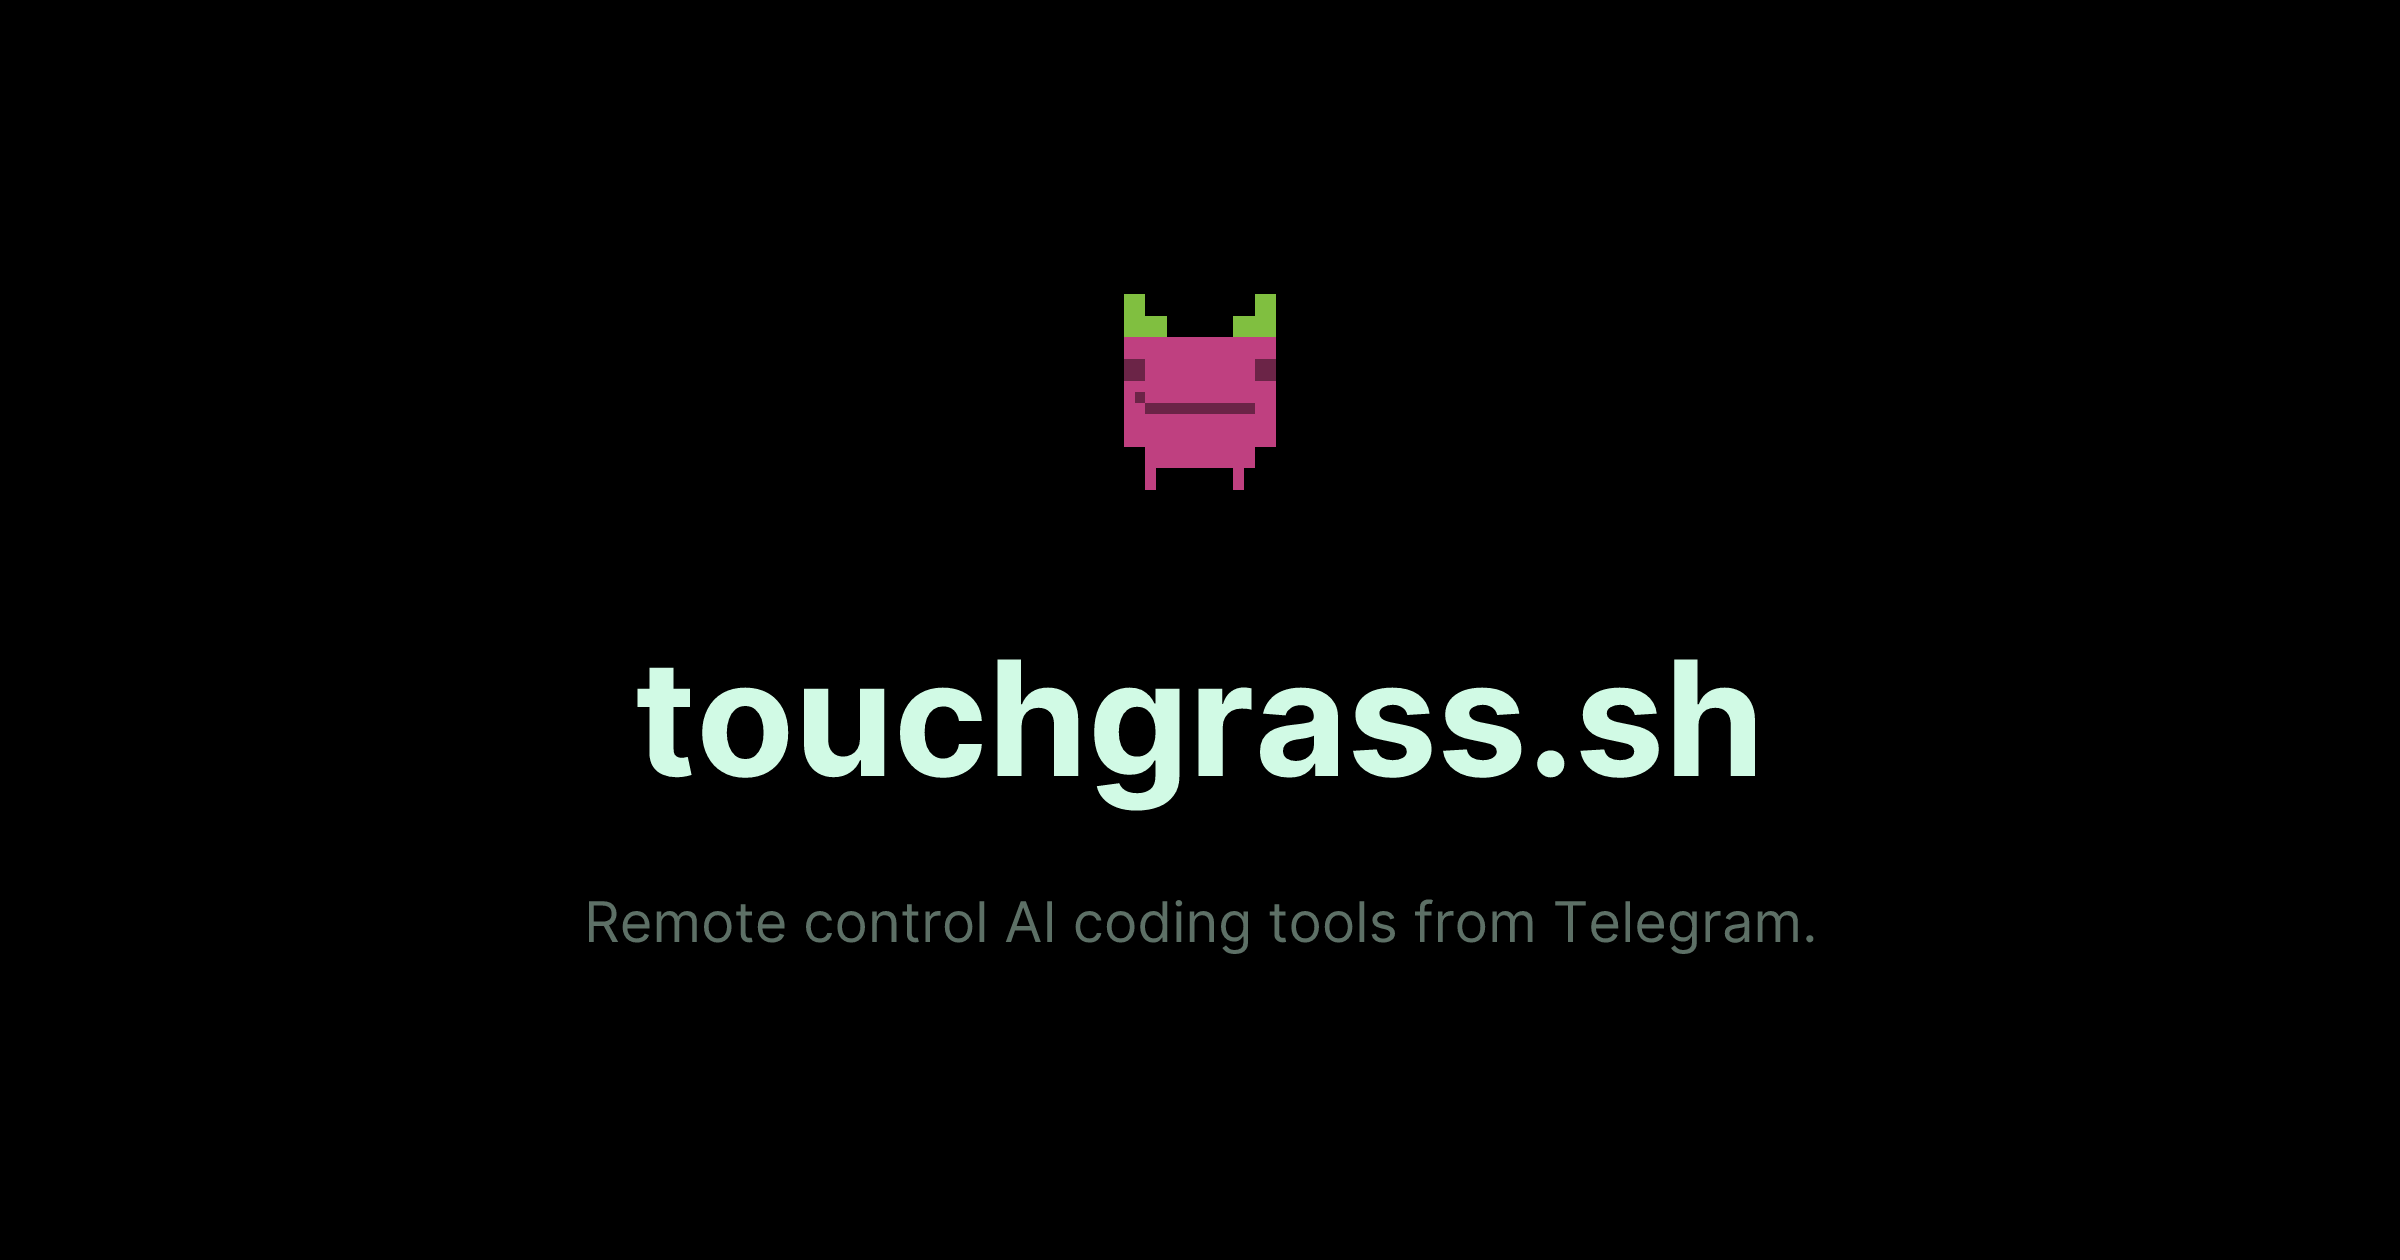
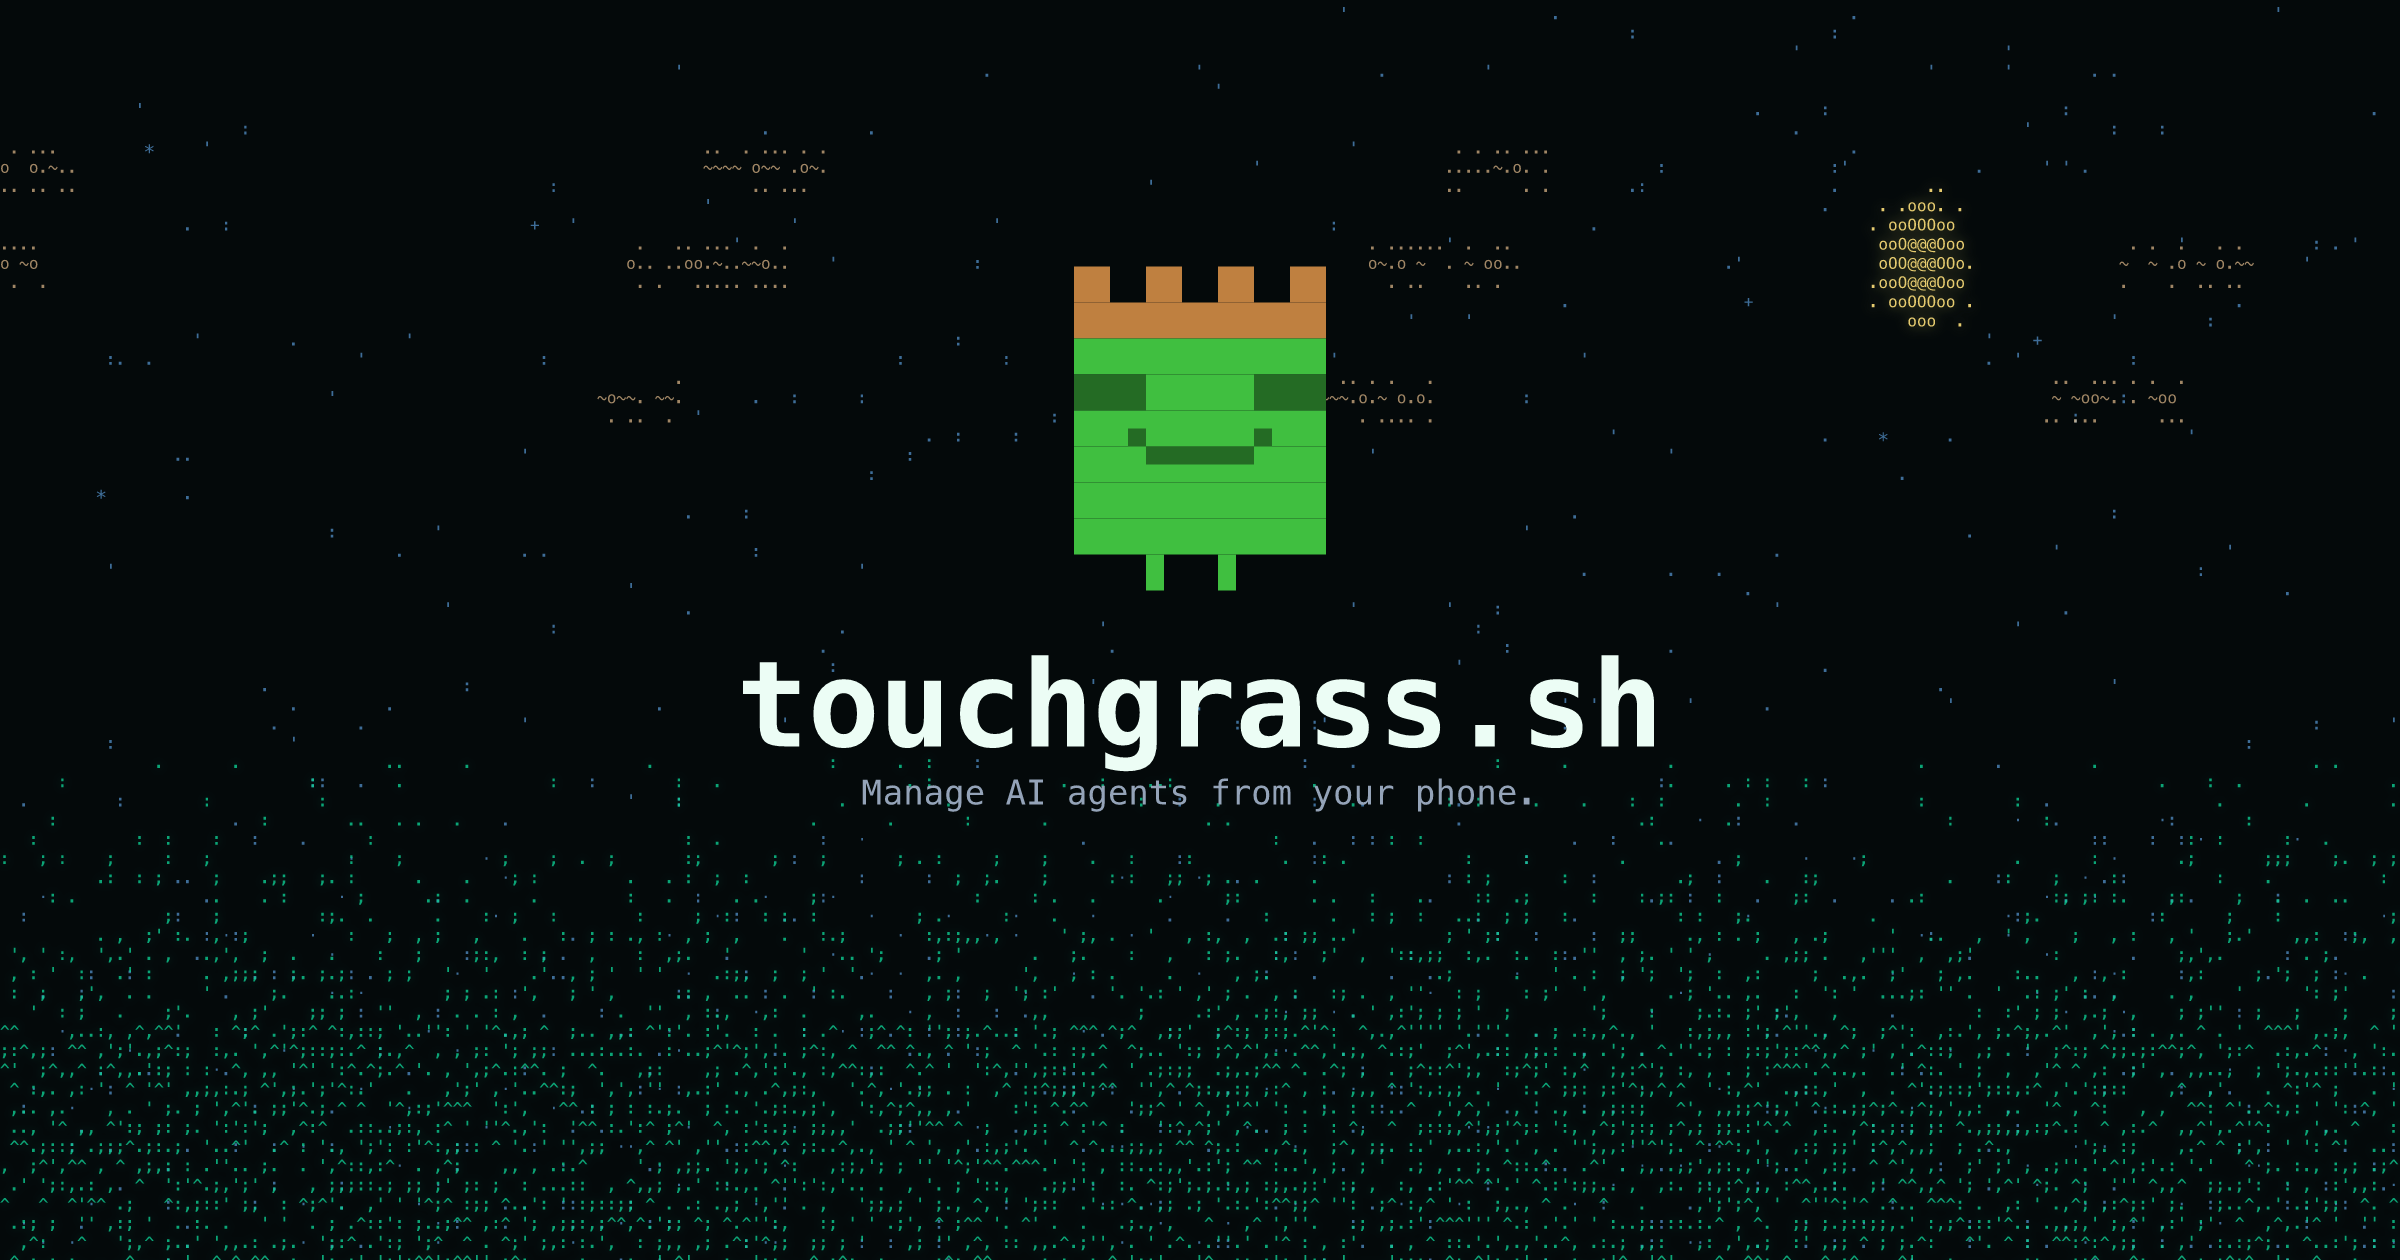
update OG image with ASCII art landscape matching website

diff --git a/scripts/generate-og.ts b/scripts/generate-og.ts
@@ -1,0 +1,301 @@
+/**
+ * Generate OG image for touchgrass.sh website
+ * Replicates the website's ASCII art landscape: sky, sun, clouds, grass
+ *
+ * Usage: bun run scripts/generate-og.ts
+ */
+import { renderSVG } from 'termlings';
+import { Resvg } from '@resvg/resvg-js';
+import { writeFileSync } from 'fs';
+import { join } from 'path';
+
+const WIDTH = 2400;
+const HEIGHT = 1260;
+
+// Same character as the website hero
+const AVATAR_DNA = '0a3f201';
+
+// Grid dimensions (matches website's monospace char approach)
+const FONT_SIZE = 16;
+const CHAR_W = FONT_SIZE * 0.602; // Menlo advance width ratio
+const LINE_H = FONT_SIZE * 1.2;
+const COLS = Math.ceil(WIDTH / CHAR_W) + 2;
+const ROWS = Math.ceil(HEIGHT / LINE_H) + 2;
+
+// Character palettes (same as GrassHero.svelte)
+const SKY_CHARS = [' ', ' ', ' ', '.', "'", ':'];
+const CLOUD_CHARS = ['.', 'o', '~'];
+const GRASS_CHARS = ["'", ',', ';', ':', '.', '^'];
+
+// Deterministic PRNG
+function mulberry32(seed: number) {
+  return () => {
+    seed |= 0;
+    seed = (seed + 0x6d2b79f5) | 0;
+    let t = Math.imul(seed ^ (seed >>> 15), 1 | seed);
+    t = (t + Math.imul(t ^ (t >>> 7), 61 | t)) ^ t;
+    return ((t ^ (t >>> 14)) >>> 0) / 4294967296;
+  };
+}
+
+const rand = mulberry32(98765);
+const pick = (arr: string[]) => arr[Math.floor(rand() * arr.length)];
+
+// ── Sky grid ──
+function buildSkyGrid(): string[][] {
+  const grid: string[][] = [];
+  const horizon = Math.floor(ROWS * 0.63);
+
+  for (let r = 0; r < ROWS; r++) {
+    const row: string[] = [];
+    for (let c = 0; c < COLS; c++) {
+      if (r < horizon) {
+        const density = 0.03 + (r / Math.max(1, horizon)) * 0.02;
+        row.push(rand() < density ? pick(SKY_CHARS) : ' ');
+      } else {
+        const density = 0.06 + ((r - horizon) / Math.max(1, ROWS - horizon)) * 0.08;
+        row.push(rand() < density ? pick(['.', ':', '\u00b7']) : ' ');
+      }
+    }
+    grid.push(row);
+  }
+
+  // Twinkling stars in upper portion
+  const maxRow = Math.max(1, Math.floor(ROWS * 0.45));
+  const starCount = Math.max(8, Math.floor(COLS * 0.035));
+  for (let i = 0; i < starCount; i++) {
+    const r = Math.floor(rand() * maxRow);
+    const c = Math.floor(rand() * COLS);
+    grid[r][c] = pick(['*', '+', '*']);
+  }
+
+  return grid;
+}
+
+// ── Sun grid ──
+function buildSunGrid(): string[][] {
+  const grid: string[][] = Array.from({ length: ROWS }, () =>
+    new Array(COLS).fill(' ')
+  );
+
+  const cx = Math.floor(COLS * 0.79);
+  const cy = Math.floor(ROWS * 0.2);
+  const radius = Math.max(3, Math.floor(Math.min(COLS, ROWS) * 0.065));
+
+  for (let r = cy - radius - 2; r <= cy + radius + 2; r++) {
+    for (let c = cx - radius - 4; c <= cx + radius + 4; c++) {
+      if (r < 0 || c < 0 || r >= ROWS || c >= COLS) continue;
+      const dx = c - cx;
+      const dy = (r - cy) * 1.25;
+      const d = Math.sqrt(dx * dx + dy * dy);
+      if (d < radius * 0.45) grid[r][c] = '@';
+      else if (d < radius * 0.8) grid[r][c] = 'O';
+      else if (d < radius * 1.05) grid[r][c] = 'o';
+      else if (d < radius * 1.4 && rand() < 0.35) grid[r][c] = '.';
+    }
+  }
+
+  return grid;
+}
+
+// ── Cloud grid (static frame) ──
+function buildCloudGrid(frame: number): string[][] {
+  const grid: string[][] = Array.from({ length: ROWS }, () =>
+    new Array(COLS).fill(' ')
+  );
+
+  const bands = [
+    { y: 0.12, phase: 0.5, speed: 0.65, threshold: 1.05 },
+    { y: 0.2, phase: 1.2, speed: 0.52, threshold: 1.0 },
+    { y: 0.3, phase: 2.1, speed: 0.44, threshold: 1.12 },
+  ];
+
+  for (const band of bands) {
+    const center = Math.floor(ROWS * band.y);
+    for (let c = 0; c < COLS; c++) {
+      const shift = frame * band.speed;
+      const wave =
+        Math.sin((c + shift) / 6 + band.phase) +
+        Math.sin((c + shift) / 13 + band.phase * 1.7);
+      if (wave <= band.threshold) continue;
+
+      for (let dy = -1; dy <= 1; dy++) {
+        const r = center + dy;
+        if (r < 0 || r >= ROWS) continue;
+        if (rand() < (dy === 0 ? 0.82 : 0.4)) {
+          grid[r][c] = dy === 0 ? pick(CLOUD_CHARS) : '.';
+        }
+      }
+    }
+  }
+
+  return grid;
+}
+
+// ── Grass grid ──
+function buildGrassGrid(): string[][] {
+  const grid: string[][] = Array.from({ length: ROWS }, () =>
+    new Array(COLS).fill(' ')
+  );
+
+  // Only fill bottom portion (matches hero-grass-fixed at bottom 42vh → ~40% of image)
+  const grassStartRow = Math.floor(ROWS * 0.58);
+
+  for (let r = grassStartRow; r < ROWS; r++) {
+    const grassRows = ROWS - grassStartRow;
+    const y = (r - grassStartRow) / Math.max(1, grassRows - 1);
+
+    for (let c = 0; c < COLS; c++) {
+      if (y < 0.15) {
+        grid[r][c] = rand() < 0.08 ? pick(['.', ':']) : ' ';
+      } else if (y < 0.3) {
+        grid[r][c] = rand() < 0.18 ? pick(['.', ':', ';']) : ' ';
+      } else if (y < 0.5) {
+        grid[r][c] = rand() < 0.35 ? pick(['.', ':', ';', "'", ',']) : ' ';
+      } else {
+        grid[r][c] = rand() < 0.7 ? pick(GRASS_CHARS) : ' ';
+      }
+    }
+  }
+
+  return grid;
+}
+
+// ── Render a character grid as SVG text ──
+function escapeXml(s: string): string {
+  return s.replace(/&/g, '&amp;').replace(/</g, '&lt;').replace(/>/g, '&gt;');
+}
+
+function gridToSvgText(
+  grid: string[][],
+  fill: string,
+  opacity: number,
+  filterId?: string
+): string {
+  const tspans: string[] = [];
+  for (let r = 0; r < grid.length; r++) {
+    const line = grid[r].join('');
+    // Skip entirely empty rows for performance
+    if (line.trim() === '') continue;
+    const y = LINE_H * (r + 1);
+    tspans.push(`<tspan x="0" y="${y.toFixed(1)}">${escapeXml(line)}</tspan>`);
+  }
+
+  let attrs = `font-family="Menlo, monospace" font-size="${FONT_SIZE}" fill="${fill}" opacity="${opacity}" xml:space="preserve"`;
+  if (filterId) attrs += ` filter="url(#${filterId})"`;
+
+  return `<text ${attrs}>${tspans.join('')}</text>`;
+}
+
+function buildSvg(): string {
+  const defs: string[] = [];
+  const layers: string[] = [];
+
+  // ── Glow filters (mimic text-shadow from CSS) ──
+  defs.push(`
+    <filter id="sun-glow" x="-50%" y="-50%" width="200%" height="200%">
+      <feGaussianBlur in="SourceGraphic" stdDeviation="6" result="blur"/>
+      <feColorMatrix in="blur" type="matrix"
+        values="1 0 0 0 0.2  0 1 0 0 0.15  0 0 1 0 0  0 0 0 0.5 0" result="glow"/>
+      <feMerge><feMergeNode in="glow"/><feMergeNode in="SourceGraphic"/></feMerge>
+    </filter>
+    <filter id="grass-glow" x="-20%" y="-20%" width="140%" height="140%">
+      <feGaussianBlur in="SourceGraphic" stdDeviation="4" result="blur"/>
+      <feColorMatrix in="blur" type="matrix"
+        values="0 0 0 0 0.06  0 0 0 0 0.73  0 0 0 0 0.51  0 0 0 0.35 0" result="glow"/>
+      <feMerge><feMergeNode in="glow"/><feMergeNode in="SourceGraphic"/></feMerge>
+    </filter>
+  `);
+
+  // ── Background ──
+  layers.push(`<rect width="${WIDTH}" height="${HEIGHT}" fill="#04090a"/>`);
+
+  // ── Sky layer ── (website color: rgba(104, 182, 255, 0.58))
+  const skyGrid = buildSkyGrid();
+  layers.push(gridToSvgText(skyGrid, 'rgb(104, 182, 255)', 0.58));
+
+  // ── Sun layer ── (website color: rgba(255, 225, 122, 0.9))
+  const sunGrid = buildSunGrid();
+  layers.push(gridToSvgText(sunGrid, 'rgb(255, 225, 122)', 0.9, 'sun-glow'));
+
+  // ── Cloud layer ── (website color: rgba(255, 210, 156, 0.62))
+  const cloudGrid = buildCloudGrid(8); // frozen at frame 8 for a nice cloud position
+  layers.push(gridToSvgText(cloudGrid, 'rgb(255, 210, 156)', 0.62));
+
+  // ── Grass layer ── (website color: rgba(14, 209, 149, 0.78))
+  const grassGrid = buildGrassGrid();
+  layers.push(gridToSvgText(grassGrid, 'rgb(14, 209, 149)', 0.78, 'grass-glow'));
+
+  // ── Avatar (centered, sitting on the grass) ──
+  const pixelSize = 36;
+  const avatarSvg = renderSVG(AVATAR_DNA, pixelSize, 0, null);
+  const wMatch = avatarSvg.match(/width="(\d+)"/);
+  const hMatch = avatarSvg.match(/height="(\d+)"/);
+  const avW = wMatch ? parseInt(wMatch[1]) : 9 * pixelSize;
+  const avH = hMatch ? parseInt(hMatch[1]) : 12 * pixelSize;
+
+  const avX = (WIDTH - avW) / 2;
+  const avY = HEIGHT * 0.14;
+
+  const innerContent = avatarSvg
+    .replace(/<svg[^>]*>/, '')
+    .replace(/<\/svg>\s*$/, '');
+  layers.push(
+    `<svg x="${avX}" y="${avY}" width="${avW}" height="${avH}" viewBox="0 0 ${avW} ${avH}">${innerContent}</svg>`
+  );
+
+  // ── Title: "touchgrass.sh" ──
+  const titleY = avY + avH + 66;
+  layers.push(`
+    <text x="${WIDTH / 2}" y="${titleY}"
+          font-family="Menlo, monospace"
+          font-size="120" font-weight="700"
+          fill="#ecfdf5" text-anchor="middle"
+          letter-spacing="-1">touchgrass.sh</text>
+  `);
+
+  // ── Subtitle ──
+  const subtitleY = titleY + 58;
+  layers.push(`
+    <text x="${WIDTH / 2}" y="${subtitleY}"
+          font-family="Menlo, monospace"
+          font-size="34"
+          fill="#94a3b8" text-anchor="middle">Manage AI agents from your phone.</text>
+  `);
+
+  return `<svg xmlns="http://www.w3.org/2000/svg" width="${WIDTH}" height="${HEIGHT}" viewBox="0 0 ${WIDTH} ${HEIGHT}">
+  <defs>${defs.join('\n')}</defs>
+  ${layers.join('\n')}
+</svg>`;
+}
+
+const svg = buildSvg();
+
+// Write SVG for inspection
+const svgPath = join(import.meta.dir, '..', 'packages', 'web', 'static', 'touchgrass-og.svg');
+writeFileSync(svgPath, svg);
+console.log(`SVG written to ${svgPath}`);
+
+const resvg = new Resvg(svg, {
+  fitTo: { mode: 'width', value: WIDTH },
+  font: {
+    loadSystemFonts: true,
+    defaultFontFamily: 'Menlo',
+  },
+});
+
+const pngData = resvg.render();
+const pngBuffer = pngData.asPng();
+
+const outPath = join(
+  import.meta.dir,
+  '..',
+  'packages',
+  'web',
+  'static',
+  'touchgrass-og.png'
+);
+writeFileSync(outPath, pngBuffer);
+console.log(
+  `PNG written to ${outPath} (${(pngBuffer.length / 1024).toFixed(0)} KB, ${pngData.width}x${pngData.height})`
+);
